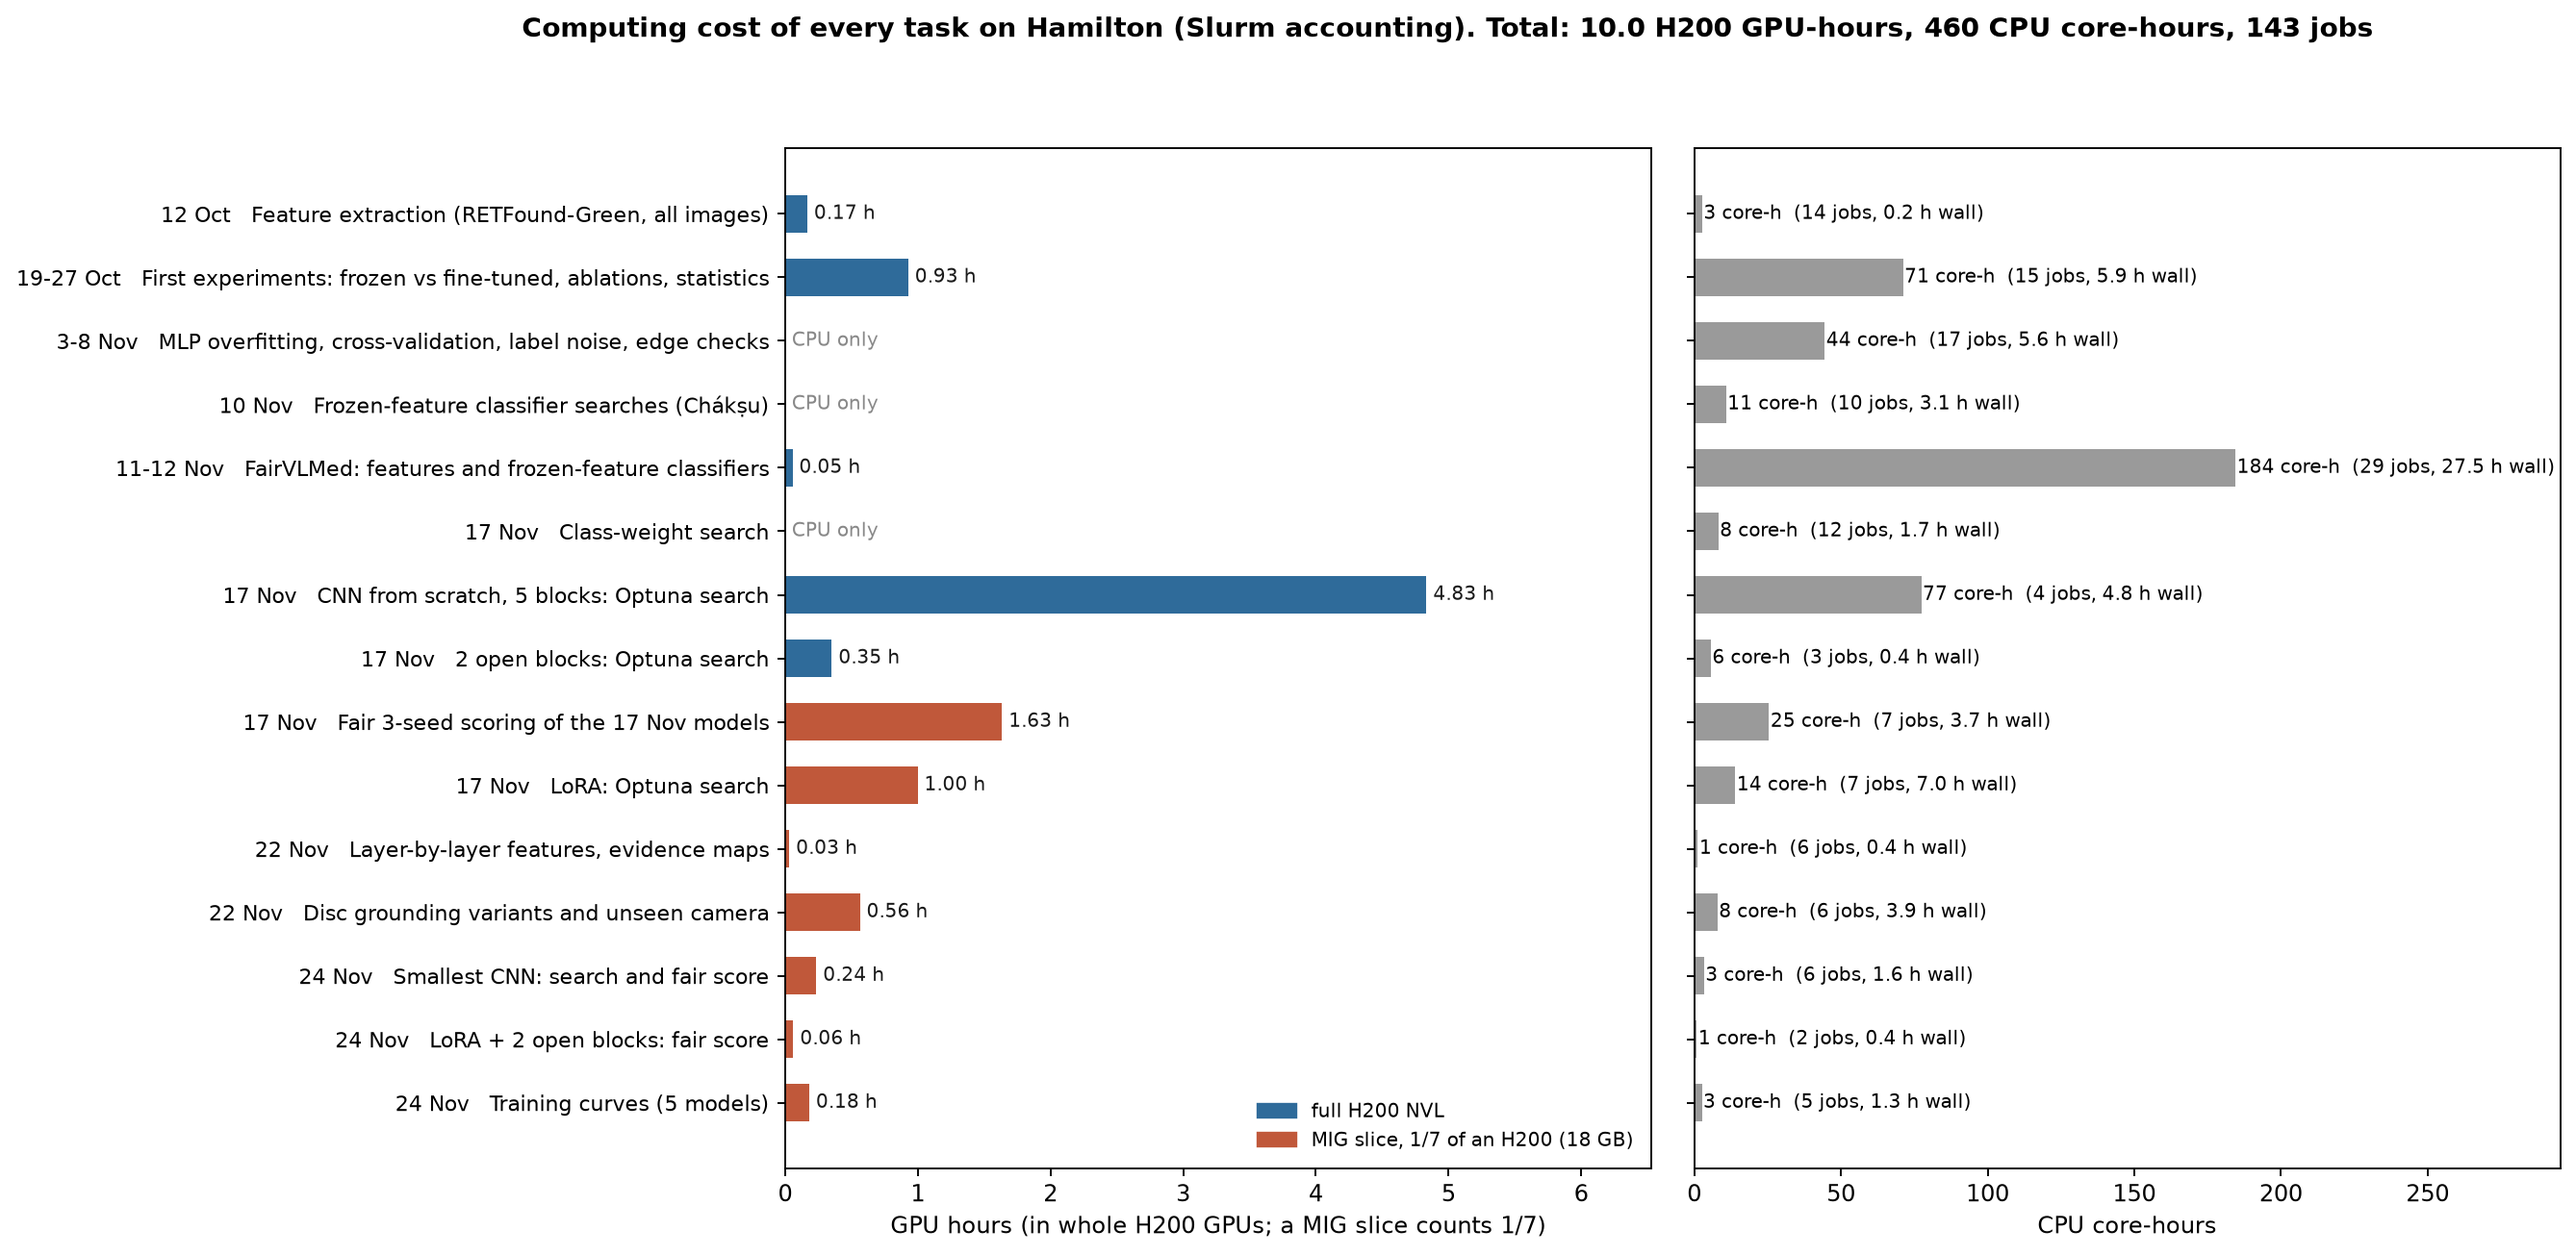
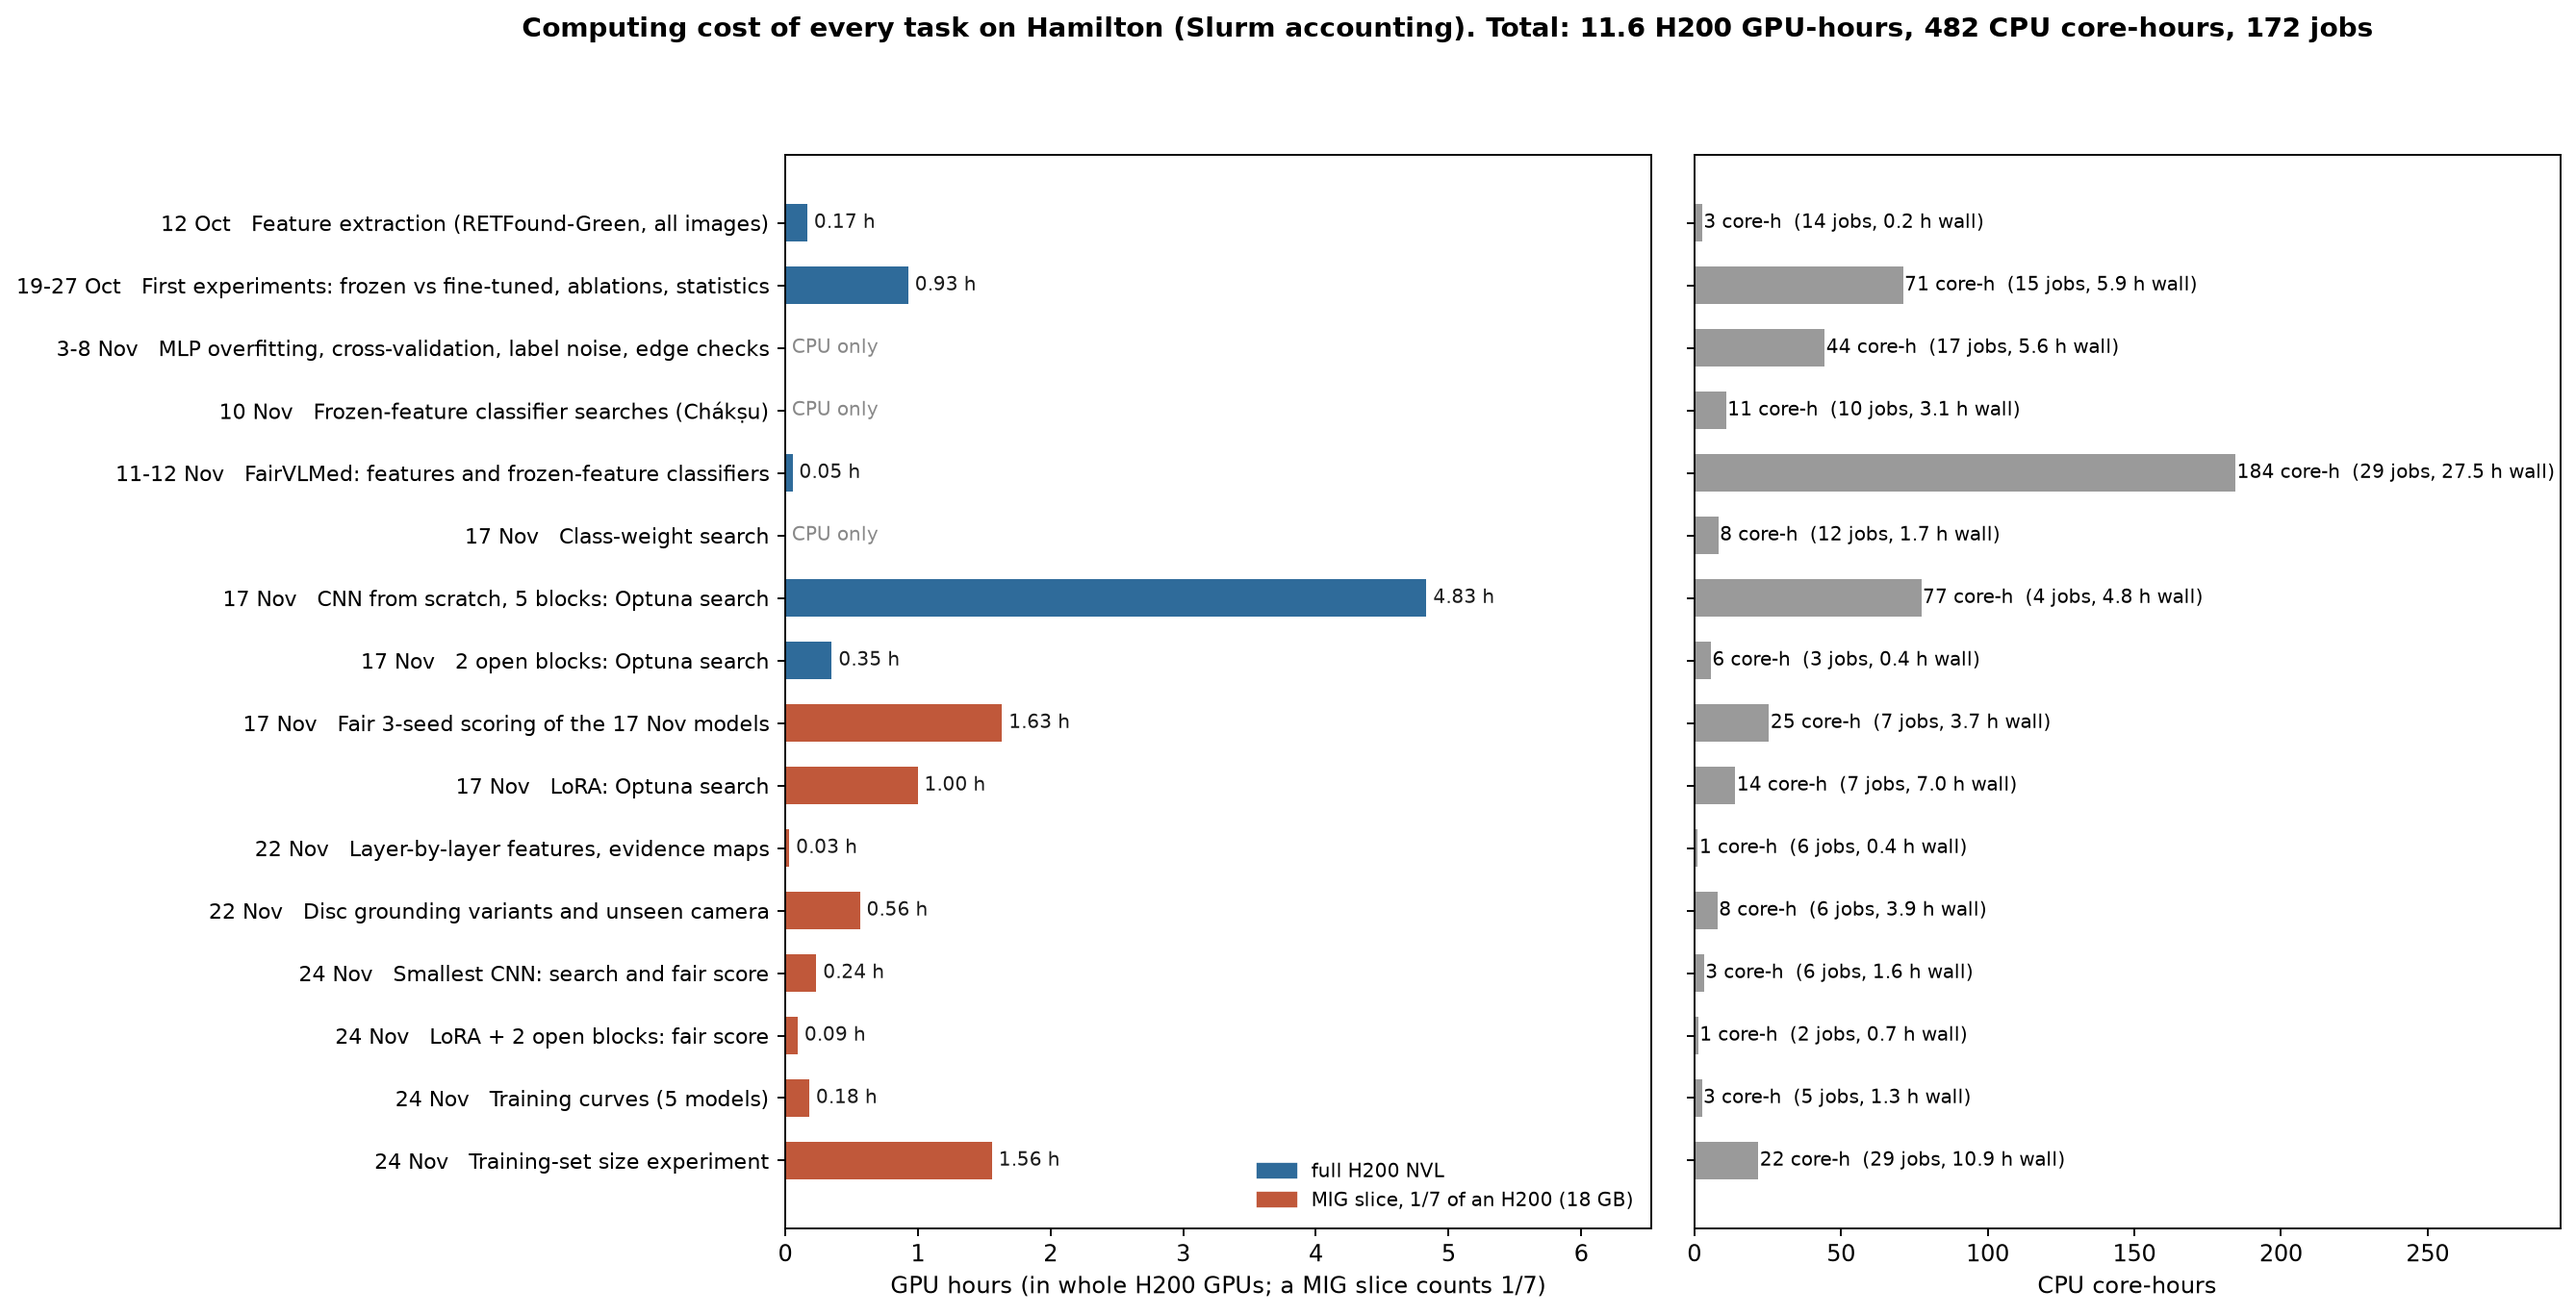
report_stats: seed-averaged comparisons against the SVM and on held-out cameras (2,000 resamples); compute cost with data-size jobs

diff --git a/after_24_Nov/report_stats.py b/after_24_Nov/report_stats.py
@@ -114,9 +114,34 @@ for n, f in models.items():
     for met, fn in (('auprc', ap), ('auroc', auc), ('fpr90', fpr90)):
         row[met] = round(mean_metric(fn, ss), 3); row[met + '_per_seed'] = [round(fn(y, s), 3) for s in ss]
         if n != 'LoRA rerun (22 Nov)':
-            d = [mean_metric(fn, ss, b) - mean_metric(fn, bs, b) for b in BOOT[:1000]]
+            d = [mean_metric(fn, ss, b) - mean_metric(fn, bs, b) for b in BOOT]
             row[met + '_minus_rerun'] = round(mean_metric(fn, ss) - mean_metric(fn, bs), 3)
             row[met + '_minus_rerun_ci'] = [round(float(np.percentile(d, 2.5)), 3), round(float(np.percentile(d, 97.5)), 3)]
     out['d_seed_averaged_metric'][n] = row
 json.dump(out, open(HERE / 'report_stats.json', 'w'), indent=1)
 print(json.dumps(out['d_seed_averaged_metric'], indent=0))
+
+# (e) frozen SVM against LoRA models with the metric averaged over seeds (same rule as d), and the camera hold-out with
+#     the metric averaged over seeds; 2,000 resamples of image groups (per camera for the hold-out)
+out['e_vs_svm_seed_averaged'] = {}
+for n in ('LoRA rerun (22 Nov)', 'LoRA + mask head 0.25', 'LoRA + 2 open blocks'):
+    ss = seeds(models[n]); row = {}
+    for met, fn in (('auprc', ap), ('auroc', auc)):
+        d = [mean_metric(fn, ss, b) - fn(y[b], svm[b]) for b in BOOT]
+        row[met + '_minus_svm'] = round(mean_metric(fn, ss) - fn(y, svm), 3)
+        row[met + '_minus_svm_ci'] = [round(float(np.percentile(d, 2.5)), 3), round(float(np.percentile(d, 97.5)), 3)]
+    out['e_vs_svm_seed_averaged'][n] = row
+out['e_camera_holdout_seed_averaged'] = {}
+S = [cb[f'seed{i}'] for i in range(3)]
+for c in ('Remidio', 'Bosch', 'Forus'):
+    va = np.where(cams == c)[0]; tr = np.where(cams != c)[0]; sc = StandardScaler().fit(X[tr])
+    s = SVC(kernel='rbf', C=6.055286457910599, gamma=0.0005741621088974824, class_weight='balanced').fit(sc.transform(X[tr]), y[tr]).decision_function(sc.transform(X[va]))
+    yy = y[va]; gv = groups[va]; ugv = np.unique(gv); gi = {g: np.where(gv == g)[0] for g in ugv}; r2 = np.random.default_rng(42)
+    bs = [np.concatenate([gi[g] for g in r2.choice(ugv, len(ugv))]) for _ in range(2000)]
+    m = lambda b: float(np.mean([ap(yy[b], q[va][b]) for q in S]))
+    d = [m(b) - ap(yy[b], s[b]) for b in bs if 0 < yy[b].sum() < len(b)]
+    out['e_camera_holdout_seed_averaged'][c] = {'lora': round(m(np.arange(len(va))), 3), 'svm': round(ap(yy, s), 3),
+        'diff': round(m(np.arange(len(va))) - ap(yy, s), 3), 'diff_ci': [round(float(np.percentile(d, 2.5)), 3), round(float(np.percentile(d, 97.5)), 3)]}
+json.dump(out, open(HERE / 'report_stats.json', 'w'), indent=1)
+print(json.dumps({k: out[k] for k in ('e_vs_svm_seed_averaged', 'e_camera_holdout_seed_averaged')}, indent=0))
+print(json.dumps({k: {m: v[m] for m in v if 'minus_rerun' in m} for k, v in out['d_seed_averaged_metric'].items()}, indent=0))

diff --git a/after_24_Nov/data_size_paper_fig.py b/after_24_Nov/data_size_paper_fig.py
@@ -10,7 +10,7 @@ s = pd.read_csv(HERE / 'data_size.csv')
 M = [('svm', 'Frozen + SVM', '#7a7a7a'), ('blocks2', '2 open blocks', '#2f6b9a'), ('lora', 'LoRA', '#c0583a'),
      ('mask025', 'LoRA + mask head', '#2e8b57'), ('lora_blocks', 'LoRA + 2 blocks', '#7b4fa0'), ('cnn', 'Small CNN', '#b08d2a')]
 plt.rcParams.update({'font.size': 7, 'font.family': 'serif', 'axes.spines.top': False, 'axes.spines.right': False})
-fig, ax = plt.subplots(figsize=(3.45, 2.0))
+fig, ax = plt.subplots(figsize=(3.45, 1.45))
 for m, n, c in M:
     d = s[s['model'] == m].sort_values('n')
     ax.fill_between(d['n'], d['vlo'], d['vhi'], color=c, alpha=0.15, lw=0)
@@ -19,6 +19,6 @@ ax.axhline(0.14, color='#999999', ls=':', lw=0.8)
 ax.set_xscale('log'); ax.xaxis.set_minor_formatter(matplotlib.ticker.NullFormatter())
 ax.set_xticks([92, 228, 456, 684, 913]); ax.set_xticklabels(['92', '228', '456', '684', '913'])
 ax.set_xlabel('training images per fold (10, 25, 50, 75, 100 %)'); ax.set_ylabel('out-of-fold AUPRC')
-ax.set_ylim(0.1, 0.65); ax.legend(frameon=False, fontsize=6, ncol=2, loc='upper left')
+ax.set_ylim(0.1, 0.78); ax.legend(frameon=False, fontsize=6, ncol=2, loc='upper left')
 fig.tight_layout(pad=0.2)
 out = HERE.parent / 'reports' / 'figures' / 'fig_data_size.pdf'; fig.savefig(out); print('saved', out)

diff --git a/after_24_Nov/compute_cost.py b/after_24_Nov/compute_cost.py
@@ -69,7 +69,7 @@ def task(r):
         return '24 Nov', 'Training curves (5 models)'
     if n in ('final_lb', 'smoke_vit'):
         return '24 Nov', 'LoRA + 2 open blocks: fair score'
-    if n.startswith('ds_'):
+    if n.startswith('ds_') or n.startswith('ds_smoke'):
         return '24 Nov', 'Training-set size experiment'
     return '?', f'{dr}/{n}'
 
